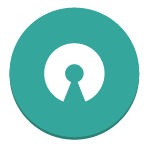
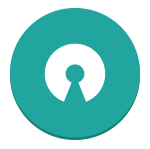
Image tabs now use sprites.
- The transition on leaving hover state does not work, we need to revisit it.
[#75401536]

diff --git a/src/pivotal-ui/components/tabs.css.scss b/src/pivotal-ui/components/tabs.css.scss
@@ -303,15 +303,15 @@ Images for the tabs should be the full color version. When the tab is inactive, 
 ```haml_example
 .tabs-images
   %ul.list-inline.nav-tabs-images
-    %li.active
+    %li.agility.active
       %a{"data-toggle" => "tab", :href => "#agility"}
-        %img.img-responsive{src: 'images/open-source-icon.png', alt: 'agility'}
-    %li
+        %span.sr-only Agility
+    %li.choice
       %a{"data-toggle" => "tab", :href => "#choice"}
-        %img.img-responsive{src: 'images/open-source-icon.png', alt: 'choice'}
-    %li
+        %span.sr-only Choice
+    %li.open-source
       %a{"data-toggle" => "tab", :href => "#open-source"}
-        %img.img-responsive{src: 'images/open-source-icon.png', alt: 'open source'}
+        %span.sr-only Open Source
 
   .tab-content
     #agility.tab-pane.fade.in.active Agility Content
@@ -323,32 +323,61 @@ Images for the tabs should be the full color version. When the tab is inactive, 
 
 .tabs-images {
   .nav-tabs-images li {
-    margin: 0 3vw;
-
     a[data-toggle=tab] {
       display: inline-block;
-      max-width: 15vw;
+      position: relative;
+      text-indent: -9999px;
+      width: 130px;
+      height: 132px;
+      background: url('../images/we-care-sprites.png') no-repeat;
+
+      &::after {
+        content: "";
+        position: absolute;
+        top: 0; left: 0; bottom: 0; right: 0;
+        background: url('../images/we-care-sprites.png') no-repeat;
+        opacity: 0;
+        -webkit-transition: opacity 300ms;
+        -moz-transition: opacity 300ms;
+        -ms-transition: opacity 300ms;
+        -o-transition: opacity 300ms;
+        transition: opacity 300ms;
+      }
+    }
+    a:hover::after,
+    &.active a::after {
+      opacity: 1;
+    }
+    &.agility {
+      a, a::after {
+        background-position: -10px -8px;
+      }
+
+      a:hover::after,
+      &.active a::after {
+        background-position: -10px -157px;
+      }
+    }
+    &.choice {
+      a, a::after {
+        background-position: -160px -8px;
+      }
+      a:hover::after,
+      &.active a::after {
+        background-position: -160px -157px;
+      }
+    }
+    &.open-source {
+      a, a::after {
+        background-position: -310px -8px;
+      }
+      a:hover::after,
+      &.active a::after {
+        background-position: -310px -157px;
+      }
     }
   }
-
   .nav-tabs-images, .tab-content {
     text-align: center;
-  }
-
-  .nav-tabs-images img {
-    -webkit-filter: grayscale(100%);
-    filter: grayscale(100%);
-    -webkit-transition: all 300ms;
-    -moz-transition: all 300ms;
-    -ms-transition: all 300ms;
-    -o-transition: all 300ms;
-    transition: all 300ms;
-  }
-
-  .nav-tabs-images .active img,
-  .nav-tabs-images img:hover,
-  .nav-tabs-images img:focus {
-    -webkit-filter: grayscale(0%);
-    filter: grayscale(0%);
   }
 }
